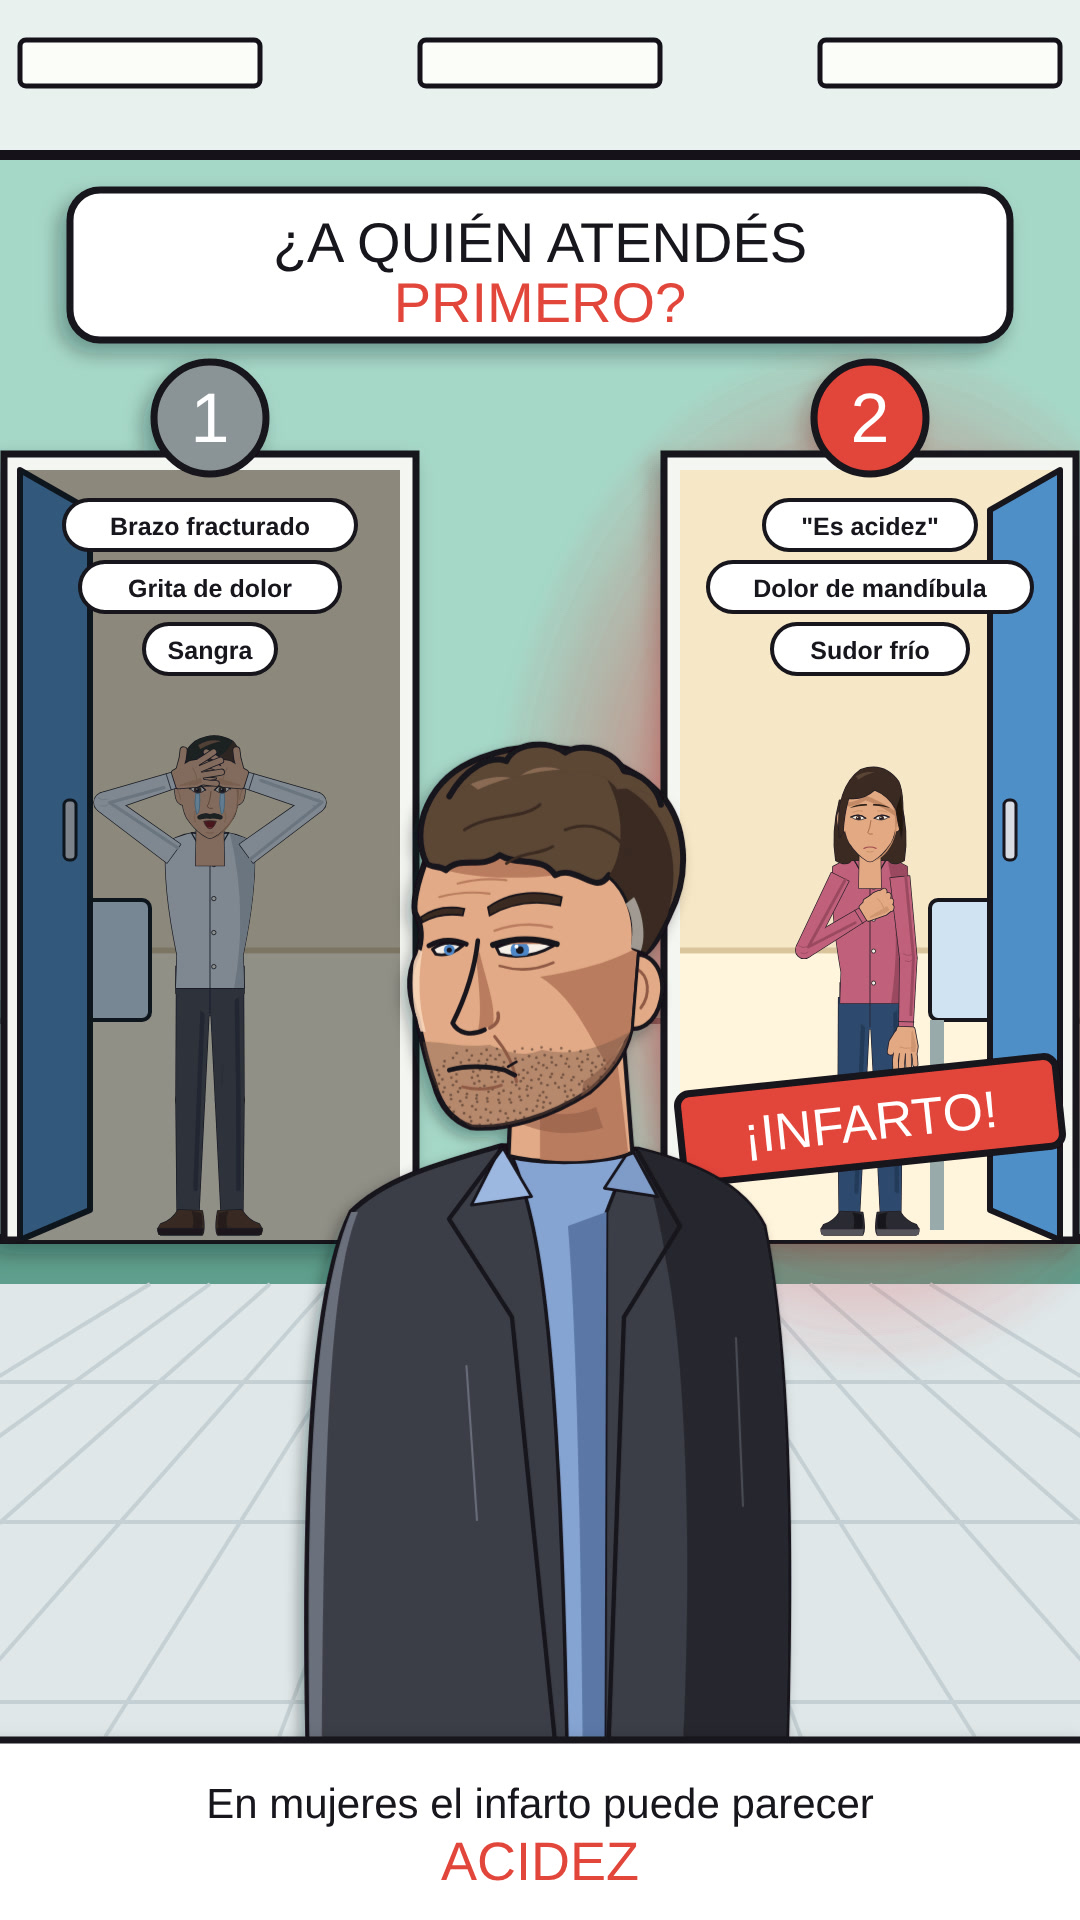
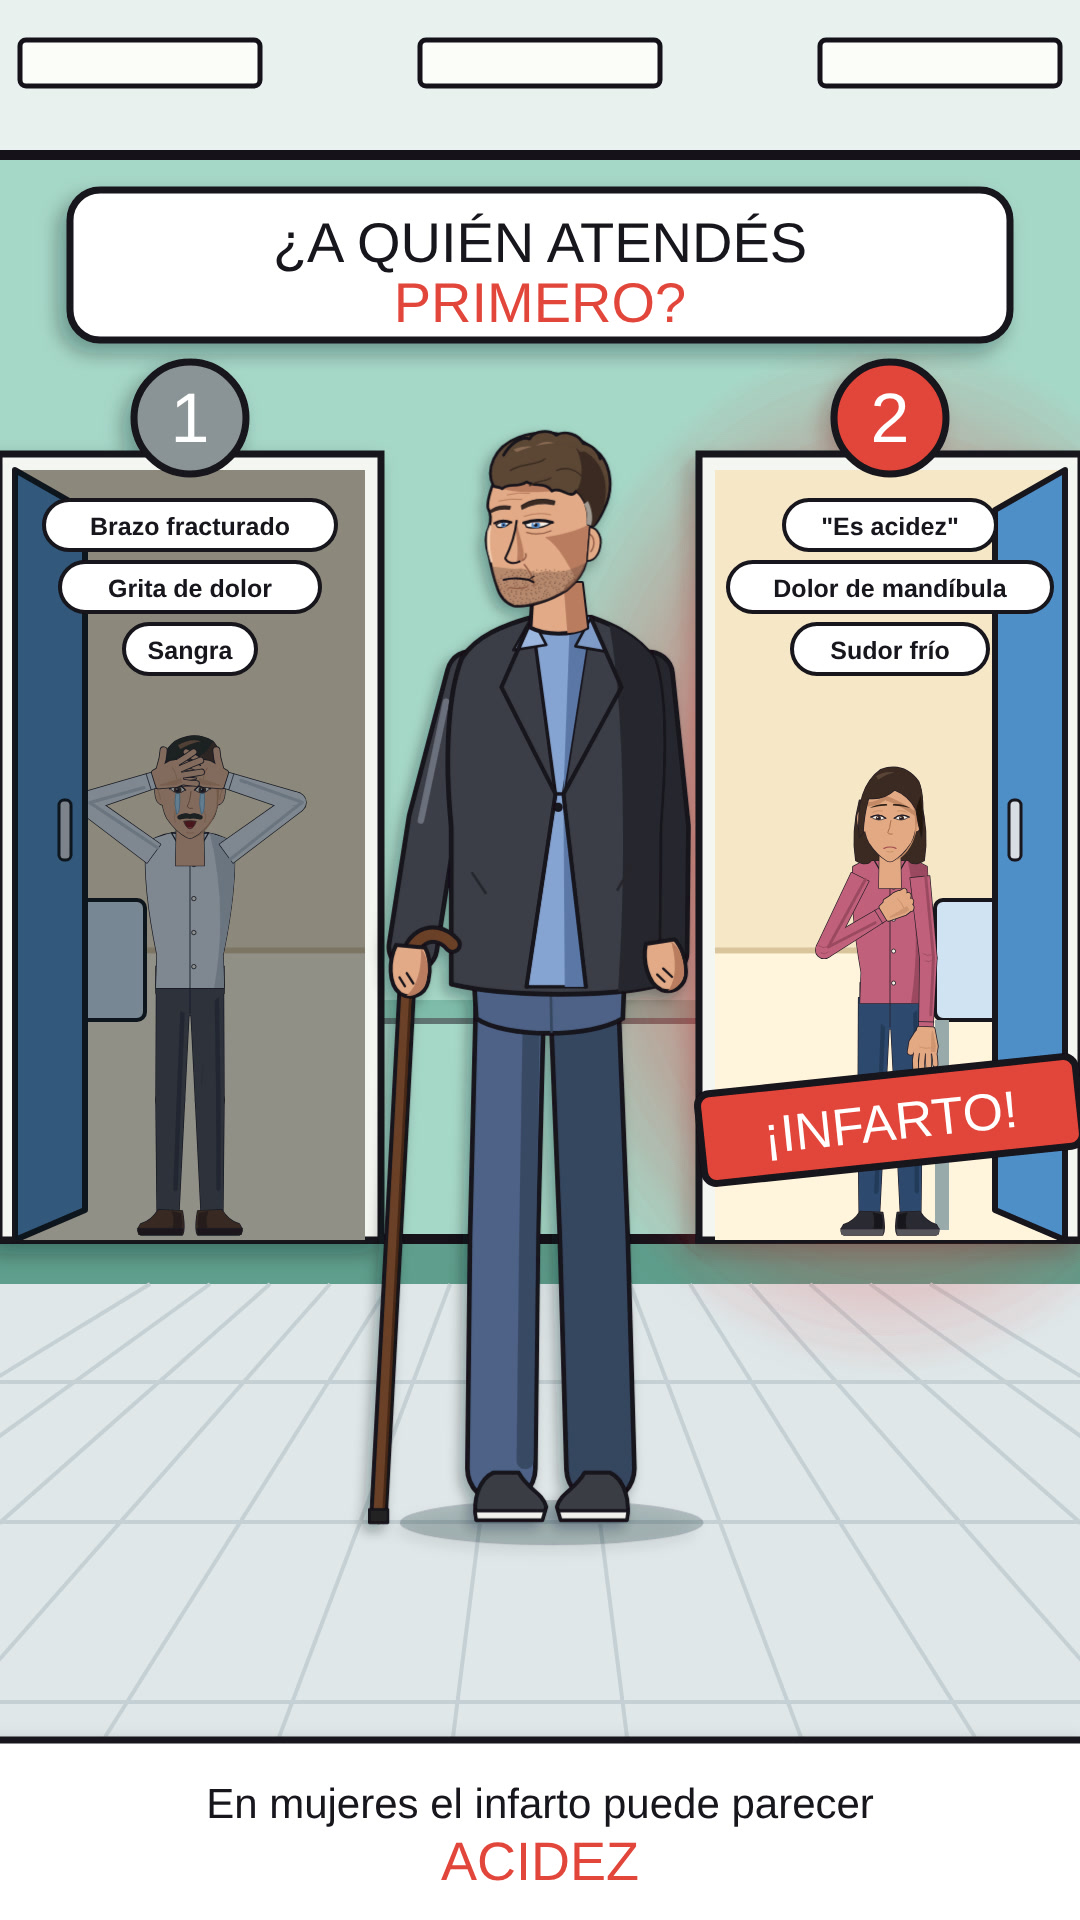
Puertas: House de cuerpo entero con bastón entre las dos puertas
Claude-Session: https://claude.ai/code/session_01GkkXfD2Nm3TmxvYx4d4aPy

diff --git a/herramientas/marvel/housefull.js b/herramientas/marvel/housefull.js
@@ -1,0 +1,46 @@
+// House de cuerpo entero, estilo serie animada. Origen: entre los pies (y=0), mide ~1600 unidades.
+import { houseSVG } from './house_draw.js';
+const L = '#15121a';
+const C = { blz: '#3b3d46', blzS: '#26272d', blzR: '#6a6f7c', shirt: '#86a4d2', shirtS: '#5a77a6', jean: '#4d6286', jeanS: '#36465f', skin: '#e2aa86', skinS: '#b97c5f', cane: '#6b4128', caneS: '#462818', shoe: '#3a3d44', sole: '#f1f1ee' };
+const P = (d, fill, w = 7, ex = '') => `<path d="${d}" fill="${fill}" stroke="${L}" stroke-width="${w}" stroke-linejoin="round" stroke-linecap="round" ${ex}/>`;
+const F = (d, fill, ex = '') => `<path d="${d}" fill="${fill}" ${ex}/>`;
+const S = (d, w, col, ex = '') => `<path d="${d}" fill="none" stroke="${col}" stroke-width="${w}" stroke-linecap="round" stroke-linejoin="round" ${ex}/>`;
+const limb = (d, w, fill) => S(d, w + 14, L) + S(d, w, fill);
+const shoe = (x, dir) => P(`M${x - 62 * dir} 0 L${x + 38 * dir} 0 C${x + 44 * dir} -30 ${x + 34 * dir} -62 ${x + 12 * dir} -72 L${x - 26 * dir} -72 C${x - 40 * dir} -46 ${x - 62 * dir} -42 ${x - 68 * dir} -20 Z`, C.shoe, 6) + P(`M${x - 66 * dir} -14 L${x + 40 * dir} -14 L${x + 38 * dir} 0 L${x - 62 * dir} 0 Z`, C.sole, 5);
+const hand = (x, y, r = 0) => `<g transform="translate(${x} ${y}) rotate(${r})">${P('M-26 -30 C-34 -5 -30 30 -10 42 C8 50 28 40 30 18 C32 -2 26 -22 18 -32 Z', C.skin, 6)}${F('M12 -30 C26 -18 30 6 26 24 C20 38 10 44 0 44 C14 30 18 0 12 -30 Z', C.skinS)}${S('M-14 18 L-4 30 M-4 10 L8 24', 3.5, L)}</g>`;
+export function houseFull() {
+  let s = '';
+  s += `<ellipse cx="10" cy="4" rx="230" ry="34" fill="#0b1a1e" opacity=".22"/>`;
+  // piernas (jean) y pelvis
+  s += limb('M58 -830 L74 -430 L84 -78', 96, C.jeanS);
+  s += limb('M-52 -830 L-62 -430 L-66 -78', 96, C.jean);
+  s += S('M-20 -800 L-26 -430 L-30 -90', 26, C.jeanS, 'opacity=".9"');
+  s += P('M-110 -860 L122 -860 L118 -760 C70 -730 -60 -730 -104 -760 Z', C.jean, 7);
+  s += S('M8 -850 L10 -740', 4, C.jeanS);
+  s += shoe(-66, -1) + shoe(86, 1);
+  // brazos (mangas)
+  s += limb('M158 -1280 L182 -1050 L180 -860', 64, C.blzS);
+  s += limb('M-112 -1280 L-170 -1060 L-200 -868', 66, C.blz);
+  s += S('M-150 -1240 L-188 -1060', 10, C.blzR);
+  // torso: saco
+  const torso = 'M-20 -1368 C-62 -1356 -104 -1340 -126 -1306 C-148 -1250 -152 -1150 -142 -1050 L-142 -812 C-60 -792 100 -792 172 -810 L174 -1050 C182 -1150 184 -1250 166 -1304 C140 -1340 104 -1356 70 -1368 Z';
+  s += `<clipPath id="trsC"><path d="${torso}"/></clipPath>` + P(torso, C.blz, 7);
+  s += `<g clip-path="url(#trsC)">${F('M95 -1370 C120 -1250 125 -1000 110 -790 L200 -790 L200 -1370 Z', C.blzS)}${F('M-150 -1300 C-165 -1150 -160 -950 -146 -800 L-170 -800 L-170 -1300 Z', C.blzR)}</g>`;
+  // camisa visible (V y abajo del botón)
+  s += P('M-20 -1368 L70 -1368 L28 -1100 L16 -1100 Z', C.shirt, 5) + F('M38 -1368 L70 -1368 L28 -1100 Z', C.shirtS);
+  s += P('M16 -1100 L28 -1100 L62 -808 L-28 -808 Z', C.shirt, 5) + F('M28 -1100 L62 -808 L30 -808 Z', C.shirtS);
+  s += P('M-20 -1368 L-48 -1318 L2 -1326 Z', '#9db8e0', 4) + P('M70 -1368 L92 -1316 L46 -1324 Z', '#7f9cc8', 4);
+  // solapas y botón
+  s += S('M-20 -1366 L-66 -1262 L16 -1100 L-28 -808', 6, L) + S('M70 -1366 L116 -1262 L28 -1100 L62 -808', 6, L);
+  s += `<circle cx="20" cy="-1080" r="7" fill="${L}"/>` + S('M-110 -980 L-90 -950 M130 -990 L110 -955', 4, C.blzS);
+  // cuello
+  s += P('M-18 -1420 L56 -1420 L64 -1352 C40 -1340 0 -1340 -22 -1352 Z', C.skin, 6) + F('M28 -1420 L56 -1420 L64 -1352 C55 -1346 42 -1344 34 -1344 Z', C.skinS);
+  // cabeza (la misma del retrato)
+  s += `<g transform="translate(0 -1385) scale(.58) translate(-560 -914)">${houseSVG({ head: true })}</g>`;
+  // bastón + manos
+  s += S('M-208 -830 L-252 -8', 28, L) + S('M-208 -830 L-252 -8', 16, C.cane) + S('M-202 -830 L-244 -20', 4, C.caneS);
+  s += S('M-208 -830 C-212 -880 -170 -905 -140 -872', 28, L) + S('M-208 -830 C-212 -880 -170 -905 -140 -872', 16, C.cane);
+  s += P('M-266 -16 L-238 -16 L-238 4 L-266 4 Z', '#222', 4);
+  s += hand(-204, -838, 8) + hand(182, -846, -6);
+  return s;
+}

diff --git a/herramientas/marvel/house_draw.js b/herramientas/marvel/house_draw.js
@@ -4,7 +4,7 @@ const C = { skin: '#e2aa86', skinS: '#b97c5f', skinD: '#8f5a45', rim: '#f8d6ba',
 const p = (d, fill, w = 5, extra = '') => `<path d="${d}" fill="${fill}" stroke="${L}" stroke-width="${w}" stroke-linejoin="round" stroke-linecap="round" ${extra}/>`;
 const f = (d, fill, extra = '') => `<path d="${d}" fill="${fill}" ${extra}/>`;
 const ln = (d, w = 5, col = L, extra = '') => `<path d="${d}" fill="none" stroke="${col}" stroke-width="${w}" stroke-linecap="round" stroke-linejoin="round" ${extra}/>`;
-export function houseSVG() {
+export function houseSVG(opt = {}) {
 let ch = '';
 // ---------- cuerpo: saco, camisa
 ch += p('M230 1920 C220 1500 230 1200 290 1080 C340 1030 420 1010 505 985 L700 990 C780 1010 850 1040 880 1100 C920 1300 920 1600 910 1920 Z', C.blz, 7);
@@ -57,6 +57,8 @@ ch += f('M470 500 C520 476 580 474 620 488 C580 486 530 492 486 512 Z', C.hairH)
 ch += p('M452 520 C470 488 500 470 520 478 C530 456 570 452 590 468 C610 454 650 466 660 490 C680 492 700 510 704 530 C690 515 670 508 652 512 C640 494 612 486 596 496 C580 480 548 482 532 500 C512 492 480 500 452 520 Z', C.hair, 0);
 ch += ln('M452 520 C470 488 500 470 520 478 C530 456 570 452 590 468 C610 454 650 466 660 490 C680 492 700 510 704 530', 7);
 ch += ln('M470 560 C500 540 540 548 560 530 M590 560 C620 548 650 560 668 590 M520 600 C540 585 560 590 575 580', 3.5, C.hairS);
+if (opt.head) return `<defs><clipPath id="faceC"><path id="faceP" d="M432 575 C418 610 408 640 411 658 C420 675 420 690 414 708 C400 735 405 760 414 785 C420 815 426 840 434 862 C440 885 452 905 478 914 C520 918 575 900 618 872 C645 850 662 825 668 798 L676 700 L700 640 C690 560 600 520 520 530 C470 535 440 555 432 575 Z"/></clipPath>
+ <clipPath id="blzC"><path d="M230 1920 C220 1500 230 1200 290 1080 C340 1030 420 1010 505 985 L700 990 C780 1010 850 1040 880 1100 C920 1300 920 1600 910 1920 Z"/></clipPath></defs><g>${ch}</g>`;
 return `<defs><clipPath id="faceC"><path id="faceP" d="M432 575 C418 610 408 640 411 658 C420 675 420 690 414 708 C400 735 405 760 414 785 C420 815 426 840 434 862 C440 885 452 905 478 914 C520 918 575 900 618 872 C645 850 662 825 668 798 L676 700 L700 640 C690 560 600 520 520 530 C470 535 440 555 432 575 Z"/></clipPath>
  <clipPath id="blzC"><path d="M230 1920 C220 1500 230 1200 290 1080 C340 1030 420 1010 505 985 L700 990 C780 1010 850 1040 880 1100 C920 1300 920 1600 910 1920 Z"/></clipPath></defs>` + body + `<g transform="translate(560 930) scale(1.2) translate(-560 -890)">${ch}</g>`;
 }

diff --git a/herramientas/marvel/puertas.html b/herramientas/marvel/puertas.html
@@ -3,7 +3,7 @@
 <script type="module">
 import { drawCharacter } from './estilo.js';
 import { EXPR, POSE } from './expr.js';
-import { houseSVG } from './house_draw.js';
+import { houseFull } from './housefull.js';
 const reveal = new URLSearchParams(location.search).get('reveal');
 const L = '#15121a';
 const box = (x, y, w, h, fill, sw = 6, rx = 0, ex = '') => `<rect x="${x}" y="${y}" width="${w}" height="${h}" rx="${rx}" fill="${fill}" stroke="${L}" stroke-width="${sw}" ${ex}/>`;
@@ -20,11 +20,11 @@ for (const y of [1380, 1520, 1700]) o += `<rect y="${y}" width="1080" height="4"
 o += `<g filter="url(#sh)">${box(70, 190, 940, 150, '#ffffff', 7, 30)}<text x="540" y="262" font-size="56" text-anchor="middle" fill="${L}">¿A QUIÉN ATENDÉS</text><text x="540" y="322" font-size="56" text-anchor="middle" fill="#e2453a">PRIMERO?</text></g>`;
 // puertas
 const doors = [
-  { x: 20, n: 1, who: 'hombre', pose: { face: { ...EXPR.shock, tears: .7, sweat: 1 }, ...POSE.headhold }, chips: ['Brazo fracturado', 'Grita de dolor', 'Sangra'] },
-  { x: 680, n: 2, who: 'madre', pose: { face: { ...EXPR.worried, sweat: 1 }, ...POSE.chin }, chips: ['"Es acidez"', 'Dolor de mandíbula', 'Sudor frío'] },
+  { x: 15, n: 1, who: 'hombre', pose: { face: { ...EXPR.shock, tears: .7, sweat: 1 }, ...POSE.headhold }, chips: ['Brazo fracturado', 'Grita de dolor', 'Sangra'] },
+  { x: 715, n: 2, who: 'madre', pose: { face: { ...EXPR.worried, sweat: 1 }, ...POSE.chin }, chips: ['"Es acidez"', 'Dolor de mandíbula', 'Sudor frío'] },
 ];
 for (const d of doors) {
-  const W = 380, T = 470, B = 1240, cx = d.x + W / 2;
+  const W = 350, T = 470, B = 1240, cx = d.x + W / 2;
   let g = '';
   if (reveal && d.n === 2) g += `<ellipse cx="${cx}" cy="${(T + B) / 2}" rx="380" ry="520" fill="url(#glow)"/>`;
   g += box(d.x - 16, T - 16, W + 32, B - T + 16, '#f4f6f2', 7);                                 // marco
@@ -44,7 +44,7 @@ for (const d of doors) {
   o += `<g filter="url(#sh)">${g}</g>`;
 }
 // House abajo
-o += `<g filter="url(#sh)" transform="translate(148 456) scale(.7)">${houseSVG()}</g>`;
+o += `<g filter="url(#sh)" transform="translate(545 1520) scale(.66)">${houseFull()}</g>`;
 // banda inferior: cuenta regresiva / CTA o dato final
 o += `<g filter="url(#sh)">${box(-10, 1740, 1100, 200, '#ffffff', 7)}`;
 if (!reveal) o += `<text x="330" y="1838" font-size="56" text-anchor="middle" fill="${L}">COMENTÁ <tspan fill="#2f7fd0">1</tspan> o <tspan fill="#2f7fd0">2</tspan></text>
